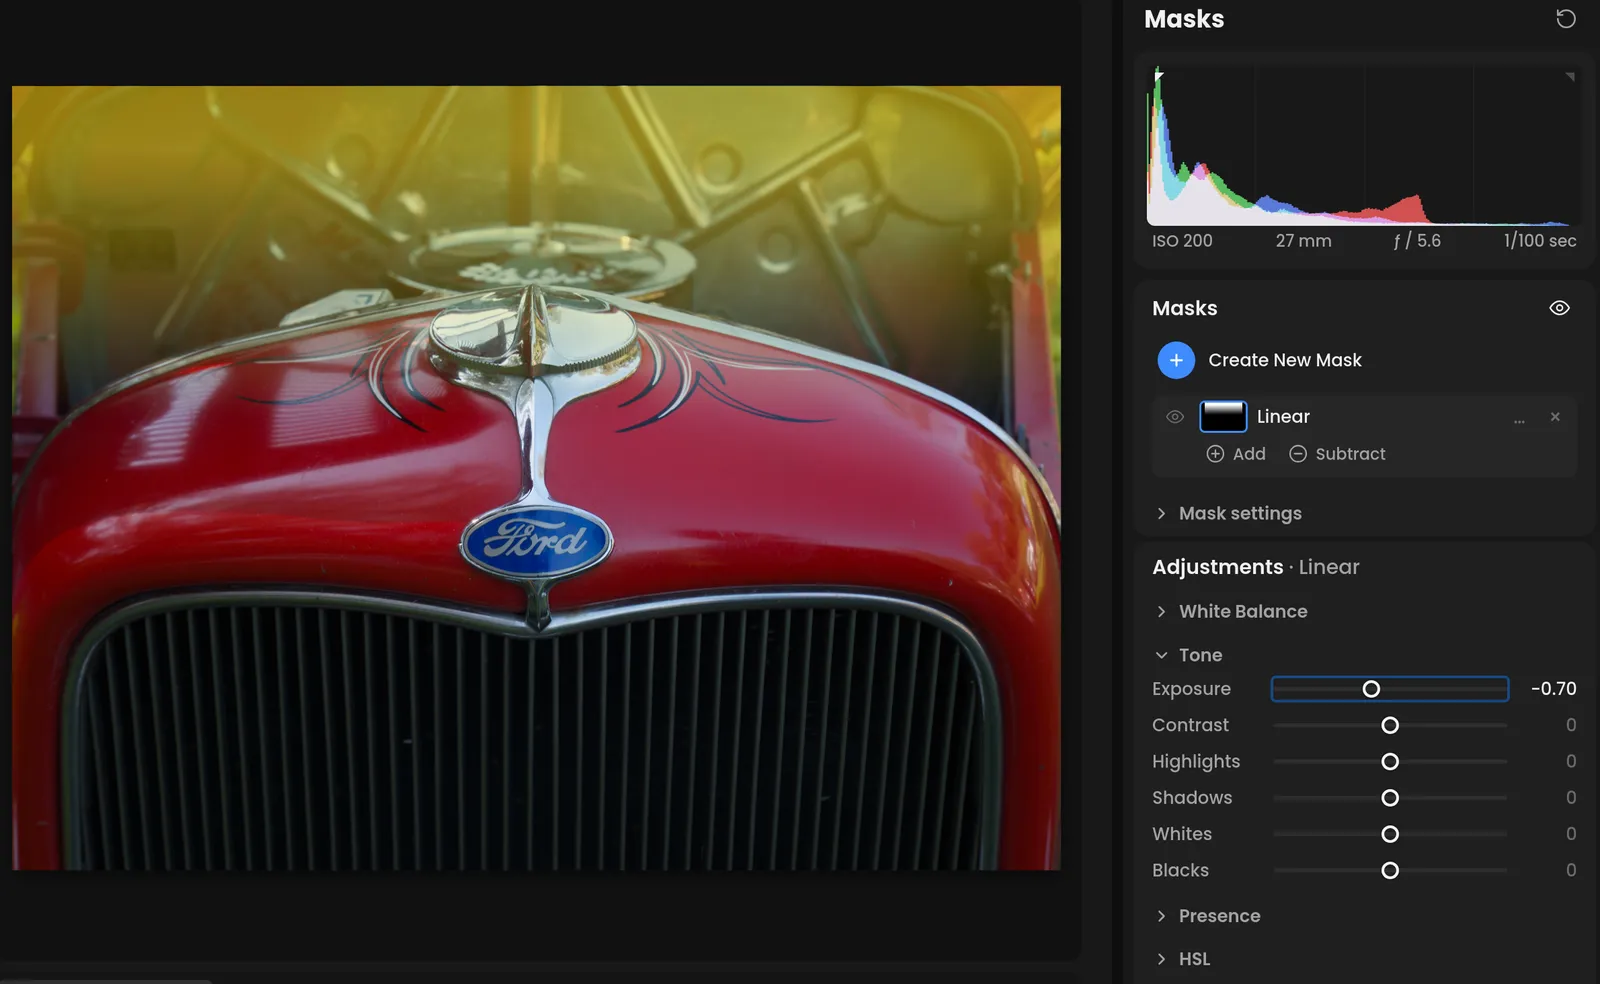
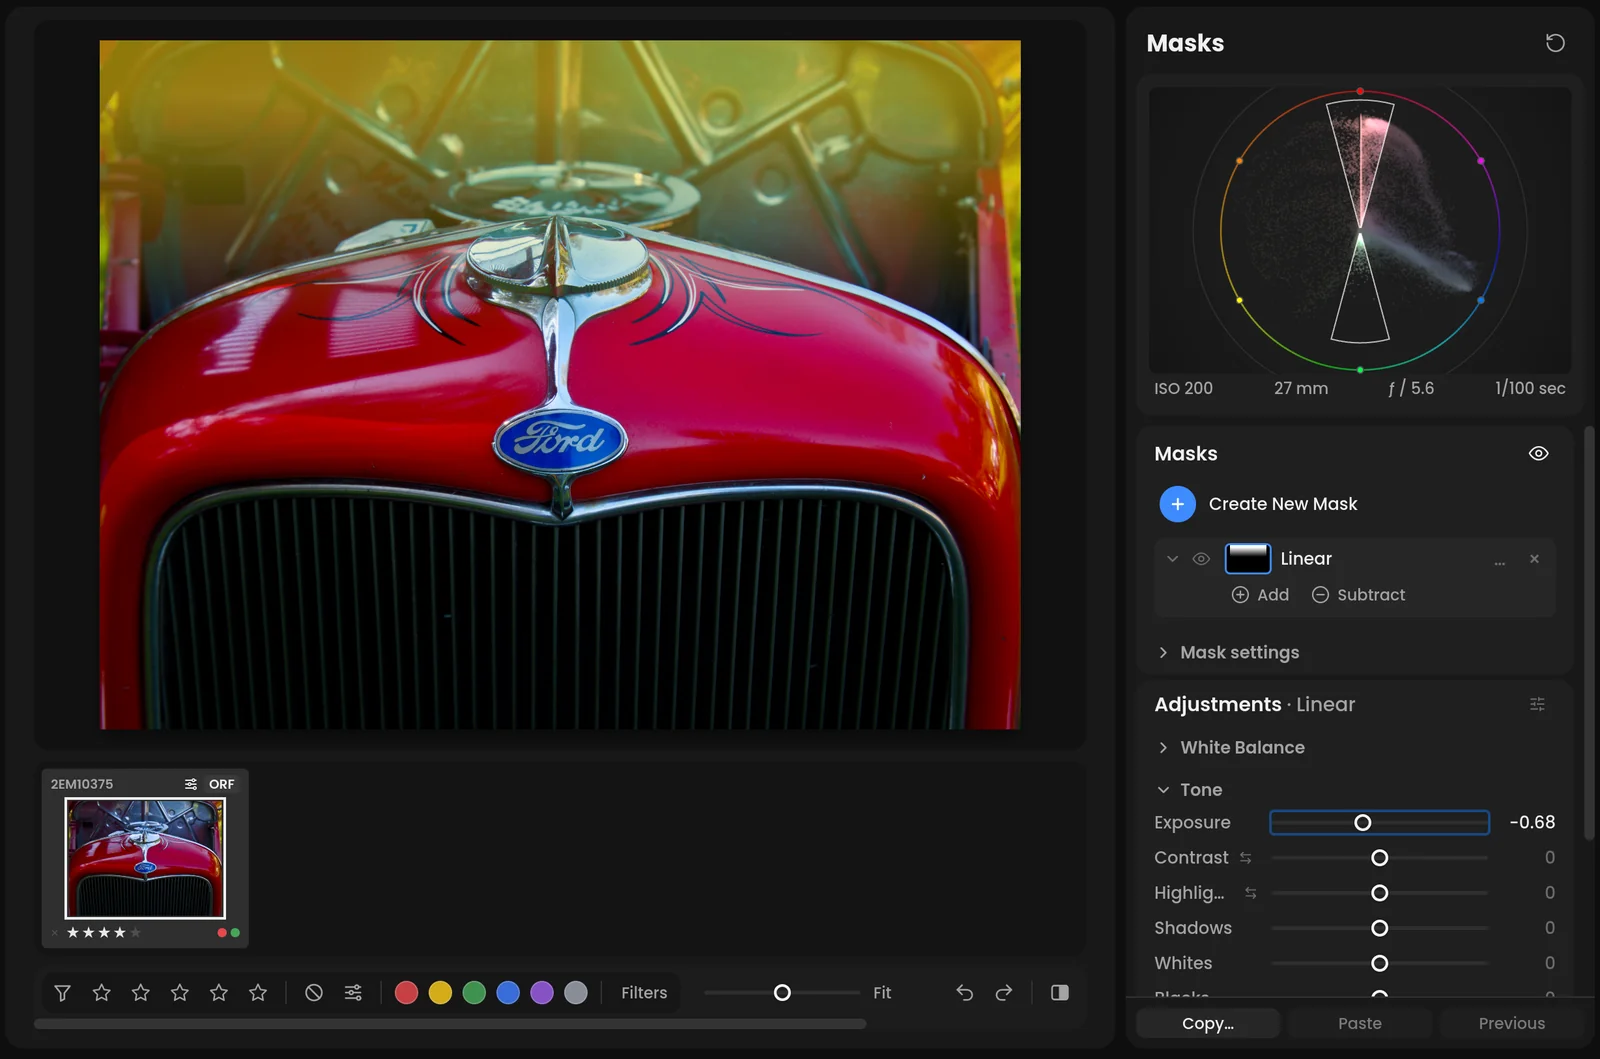
Retake the screenshots for 0.45.0
The feature stills, the Basic before/after pair and the hero are new
shots of the same Ford raw from the GUI harness, showing the numbered
Film Simulation steps, the mask Add/Subtract row, Heal's Show spots and
the File/Edit/Photo/View/Help menus. Sizes and alt text follow.

diff --git a/src/lib/features.ts b/src/lib/features.ts
@@ -29,8 +29,8 @@ export const features: Feature[] = [
       before: "media/basic-before.webp",
       after: "media/basic-after.webp",
       alt: "A raw photo of the front of a red vintage Ford, flat with every edit reset, and edited with Basic contrast, highlights and shadows plus the Kodachrome 64 film look",
-      width: 1560,
-      height: 1167,
+      width: 1414,
+      height: 1058,
     },
   },
   {
@@ -43,7 +43,7 @@ export const features: Feature[] = [
       src: "media/color-grading.webp",
       alt: "The Color Grading wheels for Midtones, Shadows and Highlights, with the shadows pushed toward teal and the highlights toward orange",
       width: 1600,
-      height: 984,
+      height: 1059,
     },
   },
   {
@@ -61,9 +61,9 @@ export const features: Feature[] = [
     ],
     media: {
       src: "media/masks.webp",
-      alt: "A linear gradient mask from the top of the photo, shown with its overlay, and the Masks panel with the mask's own Exposure at -0.70",
+      alt: "A linear gradient mask from the top of the photo, shown with its overlay, and the Masks panel with the mask's own Exposure at -0.68",
       width: 1600,
-      height: 984,
+      height: 1059,
     },
   },
   {
@@ -77,9 +77,9 @@ export const features: Feature[] = [
     ],
     media: {
       src: "media/heal.webp",
-      alt: "The Heal panel with one spot on the grille of a red vintage Ford and a dashed circle marking its source",
+      alt: "The Heal panel with one spot on the grille of a red vintage Ford, a dashed circle marking its source, and the Show spots choice",
       width: 1600,
-      height: 984,
+      height: 1059,
     },
   },
   {
@@ -108,9 +108,9 @@ export const features: Feature[] = [
     points: [],
     media: {
       src: "media/presets.webp",
-      alt: "The Presets panel with live previews of the photo for B&W Contrast, Bright & Airy, Moody, Soft and Vivid, and the film look groups",
+      alt: "The Presets panel with its groups, and live previews of the photo for the Color Slide film looks",
       width: 1600,
-      height: 984,
+      height: 1059,
     },
   },
   {
@@ -123,7 +123,7 @@ export const features: Feature[] = [
       src: "media/zones.webp",
       alt: "A black and white version of the Ford with the Zone System panel: a histogram of zones 0 to X and the placement curve",
       width: 1600,
-      height: 984,
+      height: 1059,
     },
   },
   {
@@ -138,9 +138,9 @@ export const features: Feature[] = [
     ],
     media: {
       src: "media/film-simulation.webp",
-      alt: "The Film Simulation panel with Kodak Gold 200 on its matching paper, and the photo rendered with its color and grain",
+      alt: "The Film Simulation panel's first step, with Kodak Gold 200 picked from tiles that preview the photo",
       width: 1600,
-      height: 984,
+      height: 1059,
     },
   },
   {
@@ -187,7 +187,7 @@ export const features: Feature[] = [
       src: "media/print.webp",
       alt: "The Print panel set to Save as PDF, with the photo placed on a Letter page in the viewer",
       width: 1600,
-      height: 984,
+      height: 1059,
     },
   },
 ];
